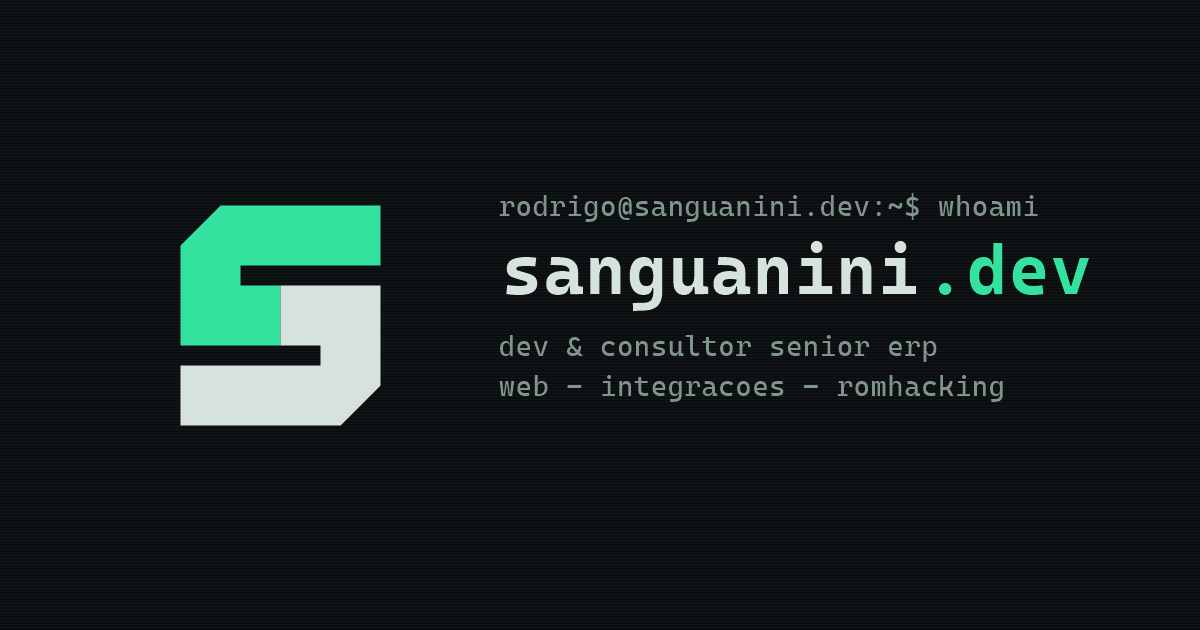
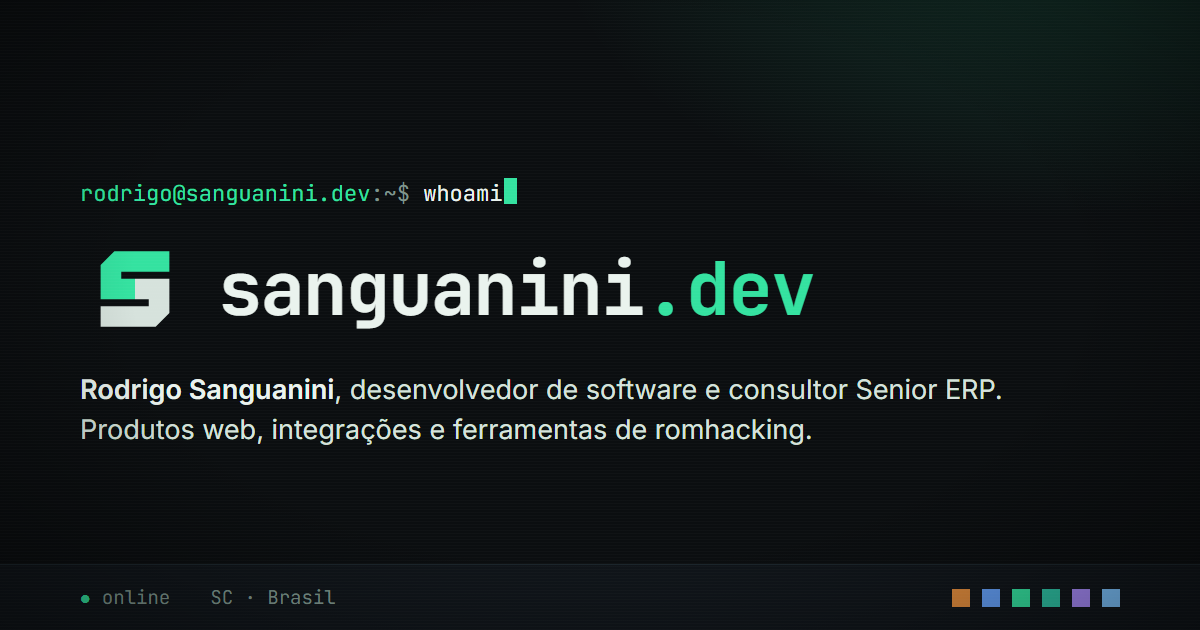
Nova og:image renderizada do proprio site (fontes e CSS reais)
Prompt whoami, S + wordmark, bio em duas linhas e barra de status
com as cores dos 6 produtos. Fonte em marca/og-fonte.html para
regenerar. Metas og:image:width/height no index.

diff --git a/marca/og-fonte.html b/marca/og-fonte.html
@@ -1,0 +1,116 @@
+<!DOCTYPE html>
+<html lang="pt-BR">
+<head>
+<meta charset="UTF-8">
+<title>og:image - fonte</title>
+<style>
+  /* Fonte da imagem OG (1200x630). Para regenerar:
+     chrome --headless=new --window-size=1200,630 --screenshot=img/og.png marca/og-fonte.html */
+  @font-face {
+    font-family: 'Inter';
+    font-weight: 100 900;
+    src: url('../fonts/inter-latin.woff2') format('woff2');
+  }
+  @font-face {
+    font-family: 'JetBrains Mono';
+    font-weight: 100 800;
+    src: url('../fonts/jetbrains-mono-latin.woff2') format('woff2');
+  }
+  * { margin: 0; box-sizing: border-box; border-radius: 0; }
+  html, body { width: 1200px; height: 630px; overflow: hidden; }
+  body {
+    background: #0b0e10;
+    color: #d6e2dc;
+    font-family: 'JetBrains Mono', monospace;
+    position: relative;
+    display: flex; flex-direction: column;
+  }
+  /* brilho de fósforo no canto, como no hero do site */
+  .glow {
+    position: absolute; inset: 0;
+    background: radial-gradient(720px 420px at 88% -12%, rgba(52, 226, 160, 0.16), transparent 70%);
+  }
+  /* scanlines + vinheta */
+  .crt {
+    position: absolute; inset: 0; pointer-events: none;
+    background: repeating-linear-gradient(0deg, rgba(255, 255, 255, 0.02) 0 1px, transparent 1px 3px);
+  }
+  .vinheta {
+    position: absolute; inset: 0; pointer-events: none;
+    background: radial-gradient(ellipse at 50% 45%, transparent 55%, rgba(0, 0, 0, 0.42));
+  }
+
+  .conteudo {
+    position: relative; flex: 1;
+    padding: 64px 80px 0;
+    display: flex; flex-direction: column; justify-content: center; gap: 26px;
+  }
+  .prompt { font-size: 22px; color: #7f948c; }
+  .prompt .user { color: #34e2a0; }
+  .prompt .cmd { color: #eaf3ee; }
+  .caret {
+    display: inline-block; width: 13px; height: 26px;
+    background: #34e2a0; vertical-align: -3px; margin-left: 2px;
+  }
+
+  .marca-linha { display: flex; align-items: center; gap: 28px; }
+  h1 {
+    font-size: 74px; font-weight: 700; letter-spacing: -0.025em;
+    color: #eaf3ee; line-height: 1.05;
+  }
+  h1 .dev { color: #34e2a0; }
+
+  .sub {
+    font-family: 'Inter', sans-serif; font-size: 27px; color: #d6e2dc;
+    max-width: 36em; line-height: 1.5;
+  }
+  .sub b { color: #eaf3ee; font-weight: 600; }
+
+  /* barra de status inferior, como o rodapé do site */
+  .status {
+    position: relative;
+    border-top: 1px solid #1c262c; background: #10151a;
+    padding: 20px 80px;
+    display: flex; align-items: center; gap: 40px;
+    font-size: 19px; color: #7f948c;
+  }
+  .status .on::before { content: '● '; color: #34e2a0; }
+  .produtos { display: flex; gap: 12px; margin-left: auto; align-items: center; }
+  .produtos i { width: 18px; height: 18px; display: block; }
+</style>
+</head>
+<body>
+  <div class="glow"></div>
+
+  <div class="conteudo">
+    <div class="prompt"><span class="user">rodrigo@sanguanini.dev</span>:~$ <span class="cmd">whoami</span><span class="caret"></span></div>
+    <div class="marca-linha">
+      <svg width="110" height="110" viewBox="0 0 32 32" aria-hidden="true">
+        <polygon points="10,5 26,5 26,11 12,11 12,13 16,13 16,19 6,19 6,9" fill="#34e2a0"/>
+        <polygon points="22,27 6,27 6,21 20,21 20,19 16,19 16,13 26,13 26,23" fill="#d6e2dc"/>
+      </svg>
+      <h1>sanguanini<span class="dev">.dev</span></h1>
+    </div>
+    <div class="sub">
+      <b>Rodrigo Sanguanini</b>, desenvolvedor de software e consultor Senior ERP.
+      Produtos web, integrações e ferramentas de romhacking.
+    </div>
+  </div>
+
+  <div class="status">
+    <span class="on">online</span>
+    <span>SC · Brasil</span>
+    <span class="produtos">
+      <i style="background:#e08b3c"></i>
+      <i style="background:#639ff7"></i>
+      <i style="background:#34e2a0"></i>
+      <i style="background:#2ec4a6"></i>
+      <i style="background:#a78bfa"></i>
+      <i style="background:#7dc4ff"></i>
+    </span>
+  </div>
+
+  <div class="crt"></div>
+  <div class="vinheta"></div>
+</body>
+</html>

diff --git a/index.html b/index.html
@@ -18,6 +18,9 @@
   <meta property="og:title" content="Rodrigo Sanguanini - sanguanini.dev">
   <meta property="og:description" content="Desenvolvedor de software e consultor Senior ERP. Produtos web, integrações e ferramentas de romhacking.">
   <meta property="og:image" content="https://sanguanini.dev/img/og.png">
+  <meta property="og:image:width" content="1200">
+  <meta property="og:image:height" content="630">
+  <meta property="og:image:type" content="image/png">
   <meta property="og:locale" content="pt_BR">
   <meta name="twitter:card" content="summary_large_image">
 
